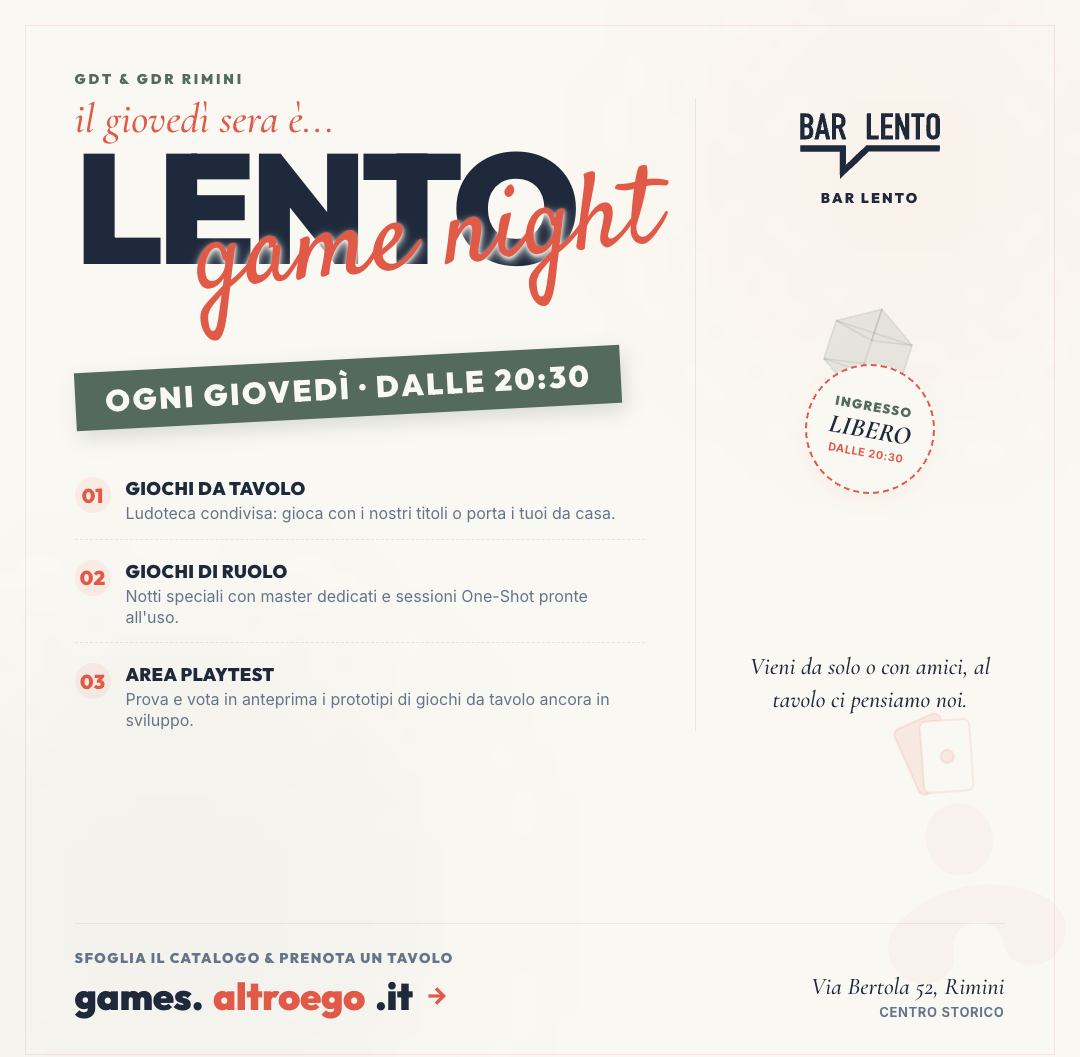
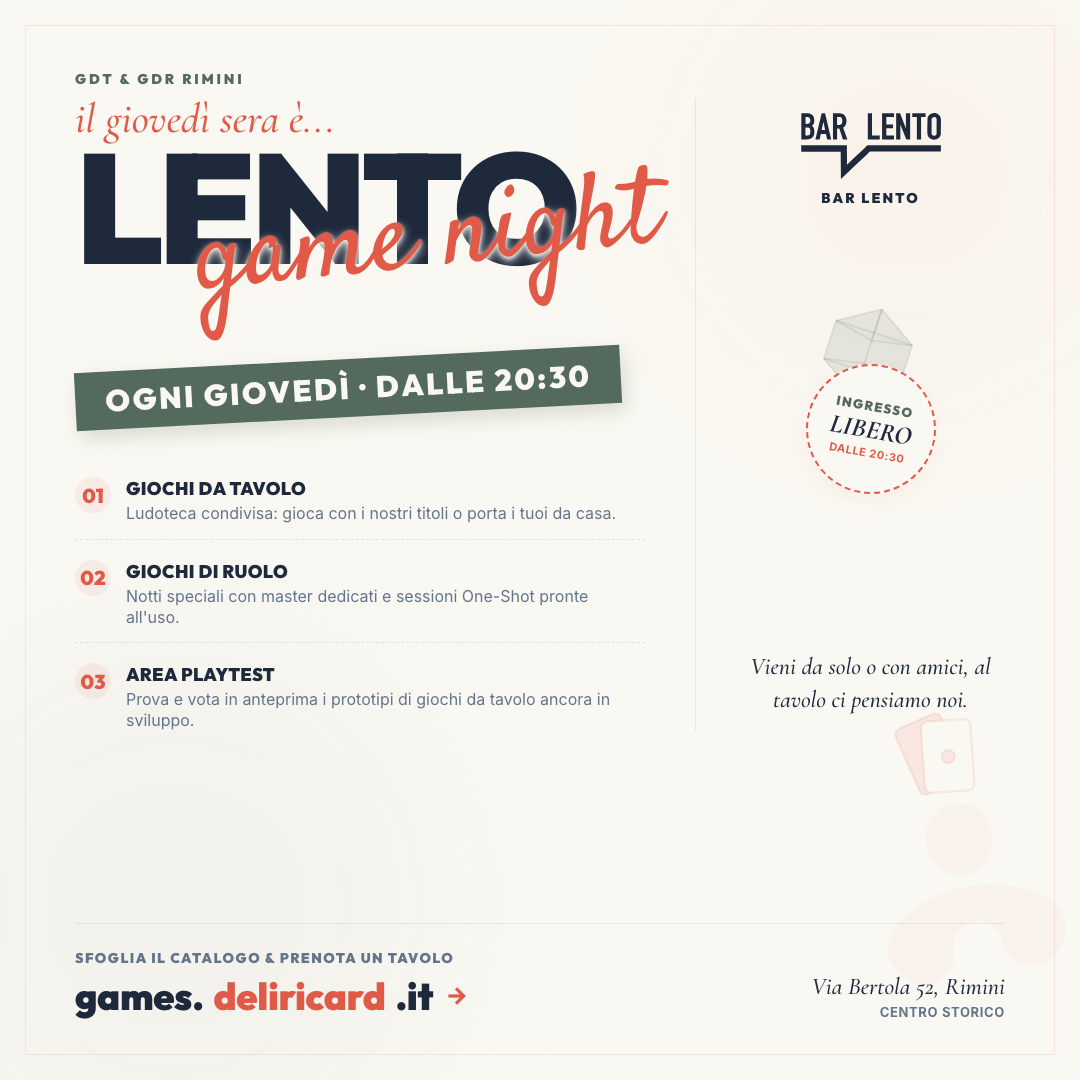
Aggiornato dominio a games.deliricard.it

diff --git a/volantino.html b/volantino.html
@@ -559,7 +559,7 @@
         <div class="footer-left">
           <span class="footer-tagline">Sfoglia il catalogo & prenota un tavolo</span>
           <div class="footer-link">
-            games.<span>altroego</span>.it
+            games.<span>deliricard</span>.it
             <svg viewBox="0 0 24 24">
               <line x1="5" y1="12" x2="19" y2="12"></line>
               <polyline points="12 5 19 12 12 19"></polyline>
